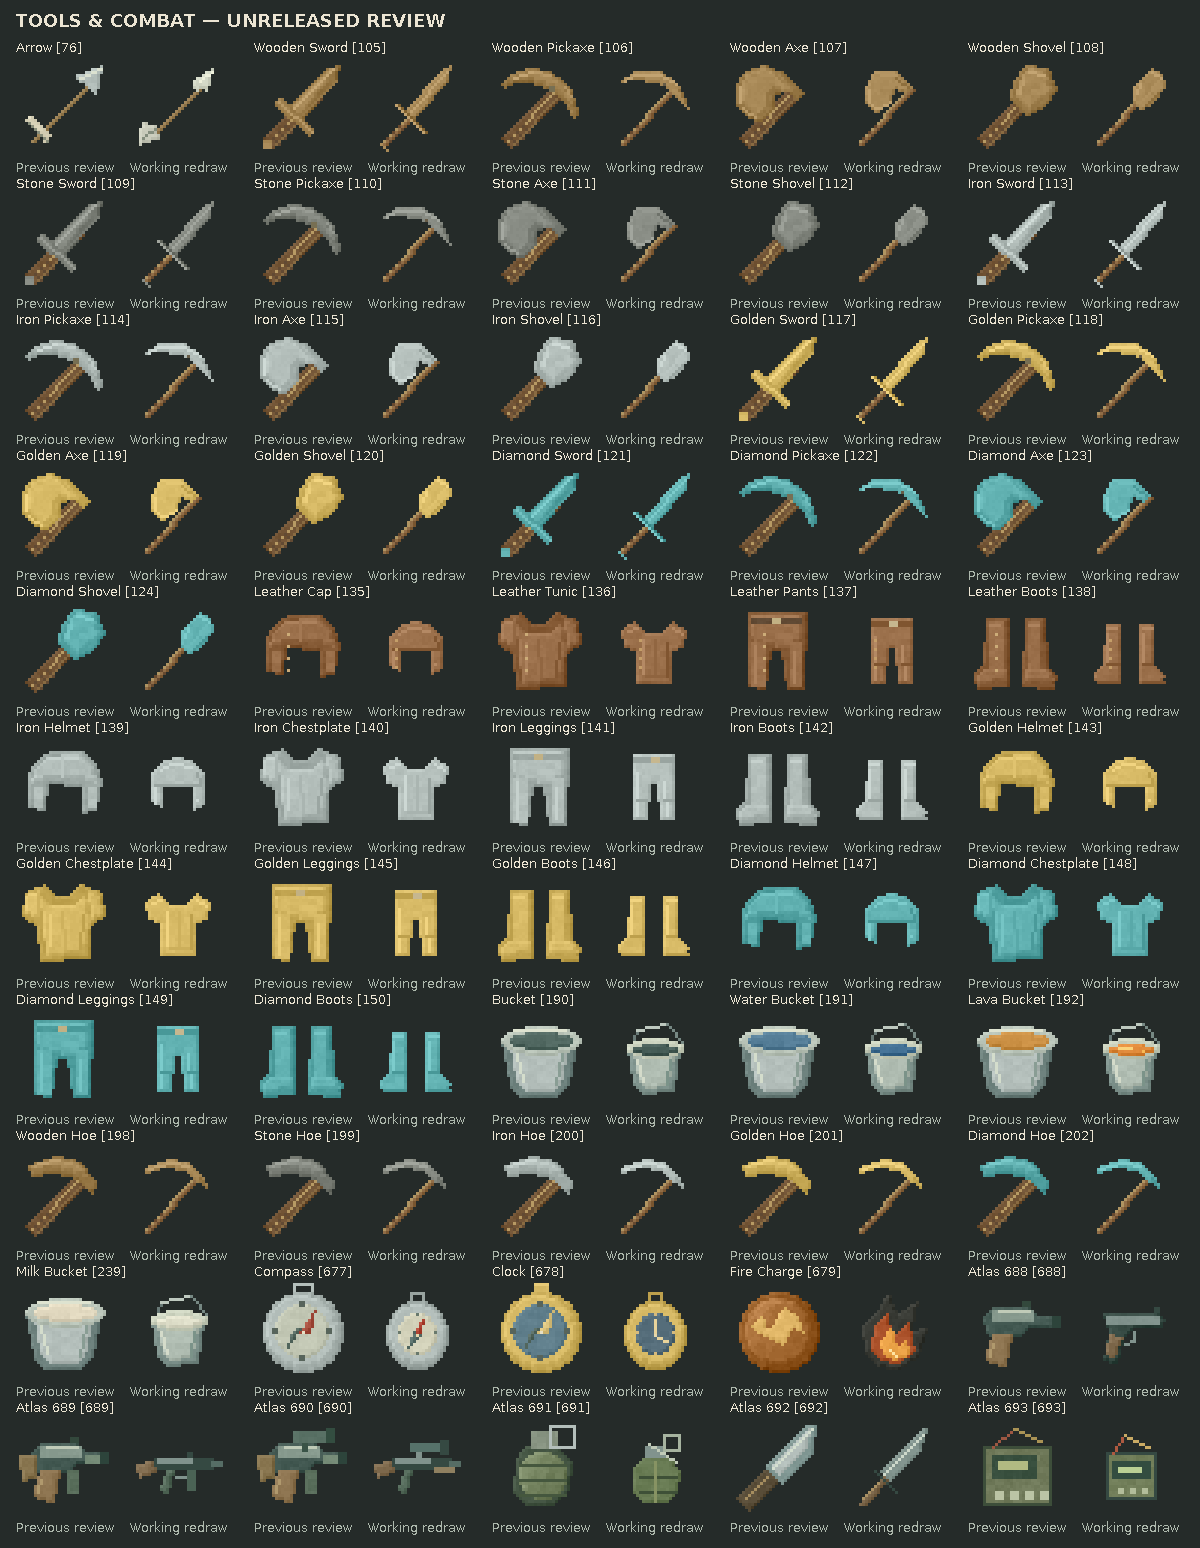
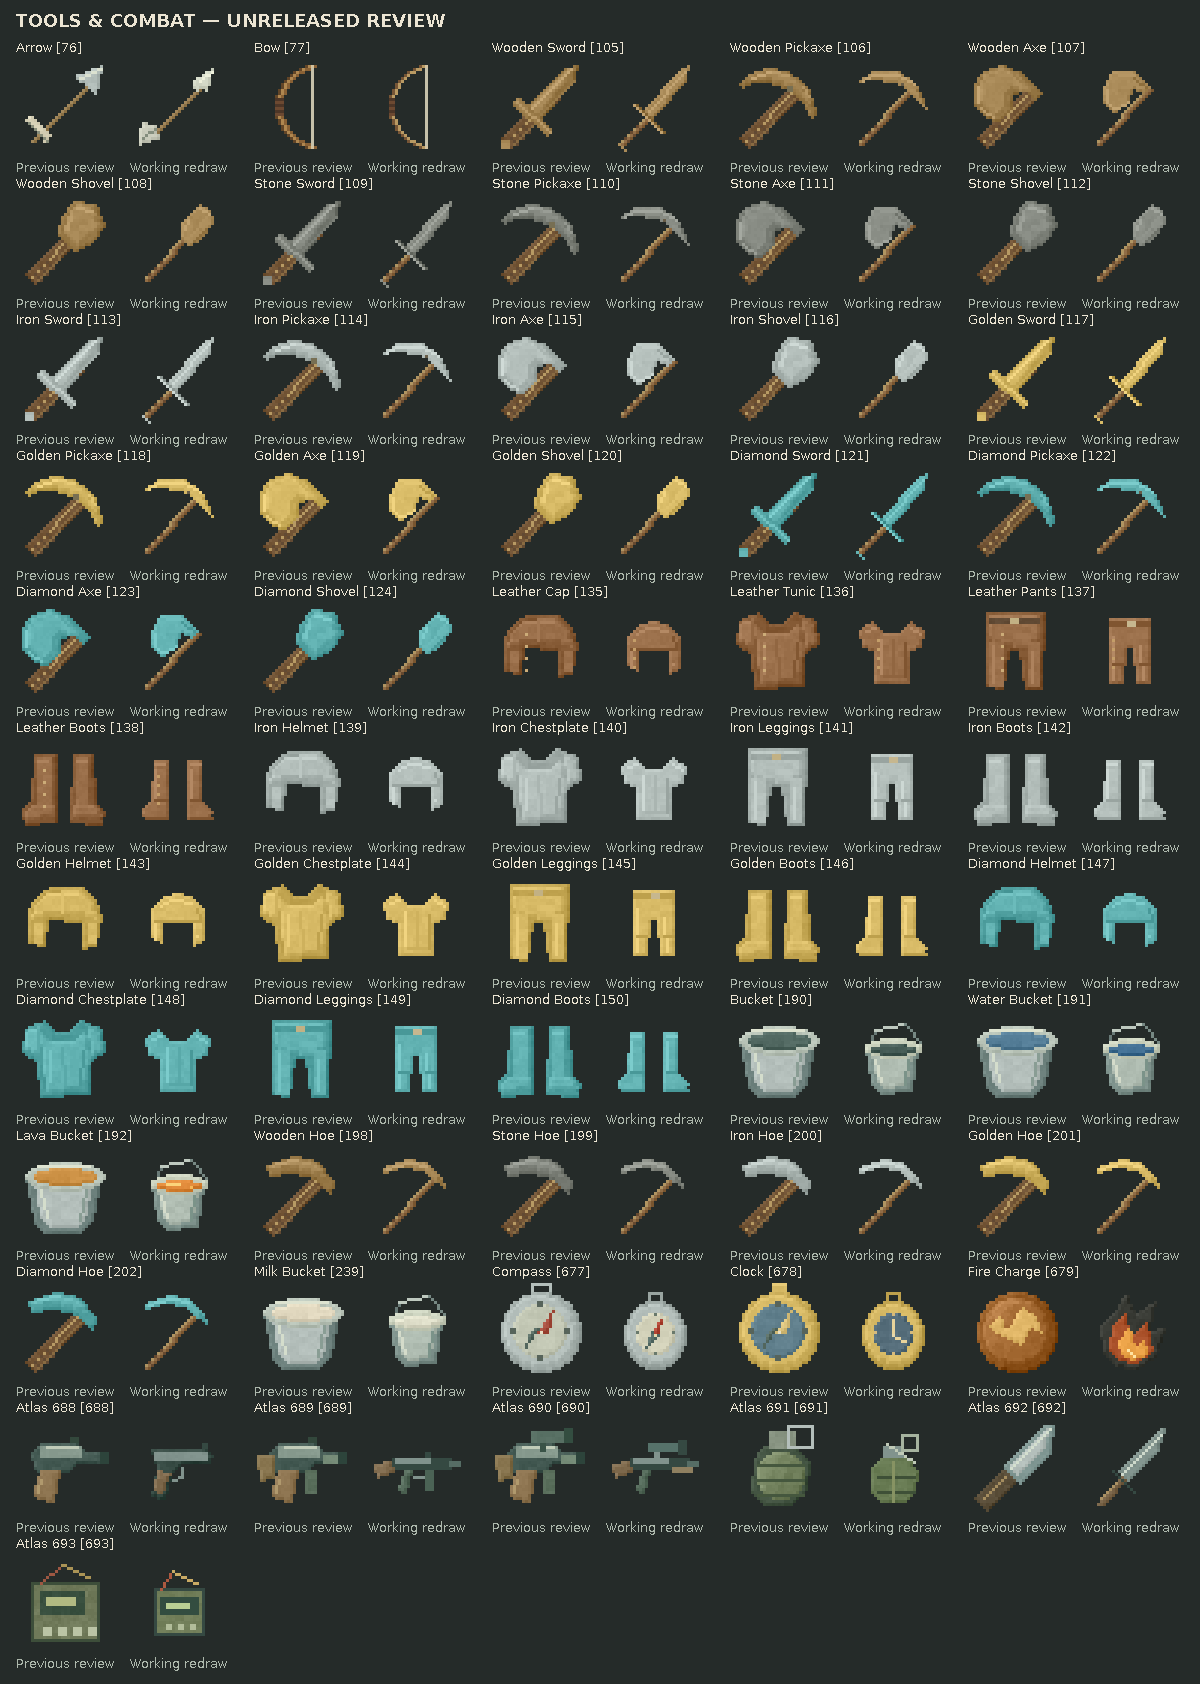
Slim bow artwork without changing flat draw mechanics; extend world review fixtures

diff --git a/test/bc/TestsUtilityReview.java b/test/bc/TestsUtilityReview.java
@@ -11,11 +11,11 @@ final class TestsUtilityReview {
       return t>=760&&t<=780||t>=39&&t<=43||t>=180&&t<=182||t>=231&&t<=234
          ||t>=265&&t<=267||t>=716&&t<=731||t>=105&&t<=124||t>=135&&t<=150
          ||t>=198&&t<=202||t>=190&&t<=192||t>=688&&t<=693
-         ||Arrays.binarySearch(new int[]{30,36,76,212,213,220,223,224,237,238,239,269,279,641,
+         ||Arrays.binarySearch(new int[]{30,36,76,77,212,213,220,223,224,237,238,239,269,279,641,
             644,645,646,659,662,663,664,669,671,677,678,679},t)>=0;
    }
    static void run() {
-      test("utility review: exact 128-cell scope preserves earlier reviews and explicit item exceptions",()->{
+      test("utility review: exact 129-cell scope preserves earlier reviews and explicit item exceptions",()->{
          ResourcePacks.select(ResourcePacks.ID_DEFAULT,null);Tex.initPixels();
          Properties before=new Properties();
          try(java.io.InputStream in=new java.io.FileInputStream("test/pixel32-color-nature.properties")){before.load(in);}
@@ -26,12 +26,13 @@ final class TestsUtilityReview {
             check(differs==reopened(t),"exact requested review scope "+t);
             if(differs){changed++;check(Arrays.equals(art,TexRemaining32.paint(t)),"native reviewed dispatch "+t);}
          }
-         eq(128,changed,"107 existing cells and 21 new components");
-         for(int t:new int[]{77,196,218,4,10,35,534,535,536,537,538})
-            check(Arrays.hashCode(BuildingBlockReviewPreview.pixels(t))==Integer.parseInt(before.getProperty(""+t)),"protected bow, exceptions and approved references "+t);
+         eq(129,changed,"108 existing cells and 21 new components");
+         for(int t:new int[]{196,218,4,10,35,534,535,536,537,538})
+            check(Arrays.hashCode(BuildingBlockReviewPreview.pixels(t))==Integer.parseInt(before.getProperty(""+t)),"explicit exceptions and approved references "+t);
+         check(Arrays.hashCode(BowSprite.previousPixels(0,false))==Integer.parseInt(before.getProperty("77")),"honest pre-review bow reference");
          for(int id:Creative.tab(Creative.TOOLS)) {
             int t=Items.tile(id);
-            check(t==77||t==196||t==218||TexTools32.handles(t),"no omitted creative Tools/Combat item "+Items.name(id));
+            check(t==196||t==218||TexTools32.handles(t),"no omitted creative Tools/Combat item "+Items.name(id));
          }
       });
       test("utility review: native tools have lighter silhouettes, readable TNT and visible cake icing",()->{

diff --git a/src/bc/BowSprite.java b/src/bc/BowSprite.java
@@ -18,7 +18,9 @@ final class BowSprite {
    static int tipY(int stage) { return 2 + stage; }
    static int nockX(int stage) { return 19 + stage * 3; }
 
-   static int[] pixels(int stage, boolean arrow) {
+   static int[] pixels(int stage, boolean arrow) {return pixels(stage,arrow,true);}
+   static int[] previousPixels(int stage,boolean arrow){return pixels(stage,arrow,false);}
+   private static int[] pixels(int stage, boolean arrow,boolean review) {
       stage = Math.max(0, Math.min(3, stage));
       int[] p = new int[SIZE * SIZE];
       int tx = tipX(stage), ty = tipY(stage), nx = nockX(stage);
@@ -30,12 +32,12 @@ final class BowSprite {
          for (int i = 0; i < top.length - 1; i++) {
             int ax = top[i][0], ay = side == 0 ? top[i][1] : 31 - top[i][1];
             int bx = top[i + 1][0], by = side == 0 ? top[i + 1][1] : 31 - top[i + 1][1];
-            line(p, ax - 1, ay, bx - 1, by, 0xFF624527);
-            line(p, ax, ay, bx, by, 0xFFAF8750);
-            line(p, ax + 1, ay, bx + 1, by, 0xFF896135);
+            line(p, ax - 1, ay, bx - 1, by, review?0xFF765536:0xFF624527);
+            line(p, ax, ay, bx, by, review?0xFFB99A63:0xFFAF8750);
+            if(!review)line(p, ax + 1, ay, bx + 1, by, 0xFF896135);
          }
       }
-      for (int y = 13; y <= 18; y++) for (int x = 7; x <= 9; x++) {
+      for (int y = 13; y <= 18; y++) for (int x = 7; x <= (review?8:9); x++) {
          set(p, x, y, (y & 1) == 0 ? 0xFF6C4931 : 0xFF4D3627);
       }
       set(p, tx, ty, 0xFFD4C3A0);

diff --git a/src/bc/TexRemaining32.java b/src/bc/TexRemaining32.java
@@ -21,7 +21,7 @@ final class TexRemaining32 {
       if (TexUtility32.handles(t)) return true;
       if (TexColorNature32.handles(t)) return true;
       if (t == 44 || t == 522) return true; // Explicitly revised in the building-tab review.
-      if (t == 77) return false; // the approved animated BowSprite owns this cell
+      if (t == 77) return true; // reviewed flat BowSprite owns this cell
       if (item(t) || animated(t)) return true;
       return t == 2 || t == 9 || t == 11 || t == 19 || t == 21 || t == 22 || t >= 25 && t <= 30
          || t == 34 || t >= 36 && t <= 43 || t == 160 || t == 161 || t >= 170 && t <= 185
@@ -53,6 +53,7 @@ final class TexRemaining32 {
 
    /** 6.4 reference painters, retained while the replacement art direction is reviewed. */
    static int[] previous(int t) {
+      if(t==77)return BowSprite.previousPixels(0,false);
       if(t>=760&&t<=780)return new int[1024];
       if(t==44||t==522||TexColorNature32.wasProtected(t))return TexPixel32.preReviewReference(t);
       if (animated(t)) return legacyFrame(t,0);

diff --git a/tools/shots.py b/tools/shots.py
@@ -823,6 +823,12 @@ SCENES["pixel-utility-chest-closed"] = (_UR+["-Dbc.time=6000","-Dbc.shaders=fals
 SCENES["pixel-utility-tools"] = ([a for a in _COH if not a.startswith(("-Dbc.fill=","-Dbc.set=","-Dbc.shot="))]
     +["-Dbc.inv=creative","-Dbc.tab=4","-Dbc.mouse=2,2","-Dbc.shaders=false","-Dbc.shot=140"],True)
 SCENES["pixel-utility-tools-page2"] = (SCENES["pixel-utility-tools"][0]+["-Dbc.page=1"],True)
+_UB=[a for a in _COH if not a.startswith(("-Dbc.fill=","-Dbc.set=","-Dbc.cam=","-Dbc.shot="))]
+_UB += ["-Dbc.fill=0,66,0,12,66,8,1;0,67,0,12,74,8,0;1,67,6,4,71,6,27",
+        "-Dbc.set=2,68,5,90;4,68,5,90;3,70,5,2444;6,67,3,2386;8,67,3,2330;10,67,3,2374",
+        "-Dbc.cam=6,69.5,-1,0,12","-Dbc.shot=200","-Dbc.worldonly=true"]
+SCENES["pixel-utility-banners-plain"] = (_UB+["-Dbc.shaders=false"],True)
+SCENES["pixel-utility-banners-lit"] = (_UB,True)
 DEFAULT_SCENES = ["title", "day-plain", "mobs", "farm", "farm-close", "sheep36", "pigs36", "inv-creative-2"]
 
 

diff --git a/src/bc/TexTools32.java b/src/bc/TexTools32.java
@@ -1,12 +1,13 @@
 package bc;
 
 /** Utility-review item silhouettes. Native 32px; deliberately leaves the accepted
- * flat animated bow, shears and flint-and-steel alone. Gun poses are not touched. */
+ * flat bow mechanics intact; shears, flint-and-steel and gun poses are untouched. */
 final class TexTools32 {
    private TexTools32(){}
-   static boolean handles(int t){return t>=105&&t<=124||t>=198&&t<=202||t>=135&&t<=150
+   static boolean handles(int t){return t==77||t>=105&&t<=124||t>=198&&t<=202||t>=135&&t<=150
       ||t==76||t>=190&&t<=192||t==239||t==677||t==678||t==679||t>=688&&t<=693;}
    static int[] paint(int t){
+      if(t==77)return BowSprite.pixels(0,false);
       if(t>=105&&t<=124||t>=198&&t<=202)return tool(t);
       if(t>=135&&t<=150)return armor(t);
       PixelArt32 a=new PixelArt32();

diff --git a/test/bc/TestsVisualRefresh.java b/test/bc/TestsVisualRefresh.java
@@ -124,7 +124,7 @@ final class TestsVisualRefresh {
                if(alphaChanges>0)newSilhouettes++;
             }
          }
-         check(changed==521,"500 earlier redrawn cells plus 21 dedicated utility components");
+         check(changed==522,"500 earlier redrawn cells, the explicitly reopened bow and 21 new utility components");
          check(newSilhouettes==items,"every rejected item receives a new silhouette");
          for(int t:new int[]{23,24,235,263})for(float phase:new float[]{0,1,7,15.5F}) {
             int[] frame=TexRemaining32.frame(t,phase);

diff --git a/src/bc/Game.java b/src/bc/Game.java
@@ -578,6 +578,7 @@ public final class Game {
          String var2 = System.getProperty("bc.cam");
          this.autoFrames++;
          if (this.autoFrames == 1) {
+            if(Boolean.getBoolean("bc.worldonly"))this.hideGui=true;
             if (var2 != null) {
                String[] var3 = var2.split(",");
                this.player.setPos(Double.parseDouble(var3[0]), Double.parseDouble(var3[1]), Double.parseDouble(var3[2]));

diff --git a/docs/art-review/utility-tools-review.md b/docs/art-review/utility-tools-review.md
@@ -27,9 +27,9 @@ carved-pumpkin and jack-o-lantern faces (223/224).
 - Explicit emissive-material list replaces inference from shared block textures;
   fragment masks restrict furnace/jack-o-lantern/torch/observer emission. Wood,
   casings, unpowered parts and daylight sensors are not emissive materials.
-- 55 slimmer item canvases: 25 tools, 16 armour pieces, arrow, four buckets,
-  compass, clock, fire charge, and six combat/mod icons. Shears and flint-and-steel
-  are pixel-exact. The existing flat bow sprites/draw animation, held lighting,
+- 56 slimmer item canvases: 25 tools, 16 armour pieces, arrow, four buckets,
+  compass, clock, fire charge, the flat bow, and six combat/mod icons. Shears and flint-and-steel
+  are pixel-exact. The bow has slimmer two-pixel limbs while retaining its flat draw animation. Held lighting,
   gun poses and cannon/mortar artwork are unchanged.
 - Paper, book and Eye of Ender are redrawn. Cake icing is authored at its actual
   half-height side UV range, rather than disappearing above the placed model.
@@ -37,19 +37,19 @@ carved-pumpkin and jack-o-lantern faces (223/224).
 ## Scope and local verification
 
 The immutable `test/pixel32-color-nature.properties` baseline was exported from
-**dfee07f**, before this batch. An independent allowlist verifies exactly **128
-changed cells**: 107 existing canvases and 21 new component cells (760–780).
+**dfee07f**, before this batch. An independent allowlist verifies exactly **129
+changed cells**: 108 existing canvases and 21 new component cells (760–780).
 Every other atlas cell, including the 16 Building revisions and 100 retained
 Colors/Nature revisions, is unchanged. Previous review scope checks remain in
 place; only the two explicitly reopened pumpkin faces are delegated to this guard.
 
-Local full run: **4,420,111 assertions passed, 0 failed**. Strict terrain/world/tick
+Local full run: **4,422,163 assertions passed, 0 failed**. Strict terrain/world/tick
 comparison still matches the 3.5 reference with legacy features selected:
 397 equal fingerprints, 64 intentionally changed, 145 new. The old mesh flag
 retains historical torch/chest geometry rather than weakening that comparison.
 GLSL syntax checks pass; these are not a substitute for a GPU/driver run.
 
-Coverage: **539 populated cells = 521 redrawn + 17 protected + 1 white utility**.
+Coverage: **539 populated cells = 522 redrawn + 16 protected + 1 white utility**.
 New components have CPU16 fallbacks before resource-pack overrides; default
 native32 dispatch owns their full-resolution art. The furnace animation upload
 is limited to the default native32 pack.
@@ -70,11 +70,13 @@ The icons sheet uses the real GUI model path with a native32 software atlas.
 - [GUI models and banner items](utility-review-icons.png)
 
 Actual-game fixtures have been added for plain/lit utility models, night emission,
-menu-open/menu-closed chest views, and the Tools/Combat inventory. The initial remote
+menu-open/menu-closed chest views, both Tools/Combat inventory pages, standing/wall
+banners and wall-torch caps, plus idle/full-draw flat bows. The initial remote
 Mesa runs (38618694527, source 1f4e33d) and image inspection completed successfully.
 Inspection exposed floor occlusion beneath the egg/cage and repeated latch artwork
 inside the open chest; those are now corrected and covered by new mesh tests.
-A follow-up actual-game capture is pending at this checkpoint. Chest
+The corrective follow-up (38619902783, source 66755d5) also passed. The final
+bow/cloth/wall-torch capture is pending at this checkpoint. Chest
 motion smoothness/performance and resource-pack appearance still need visual
 checks. Test totals and coverage establish scope/correctness, not art approval.
 
